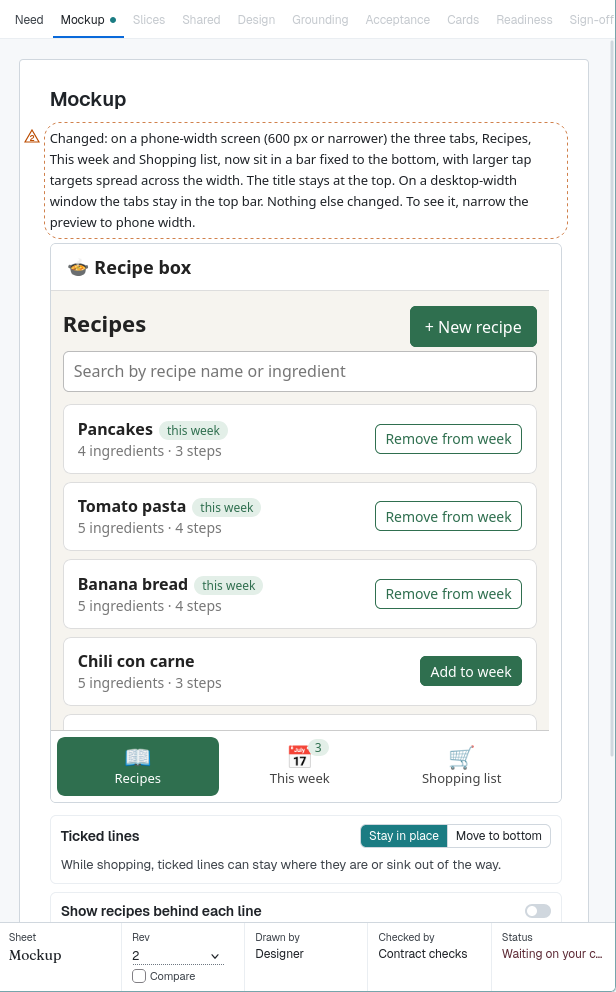
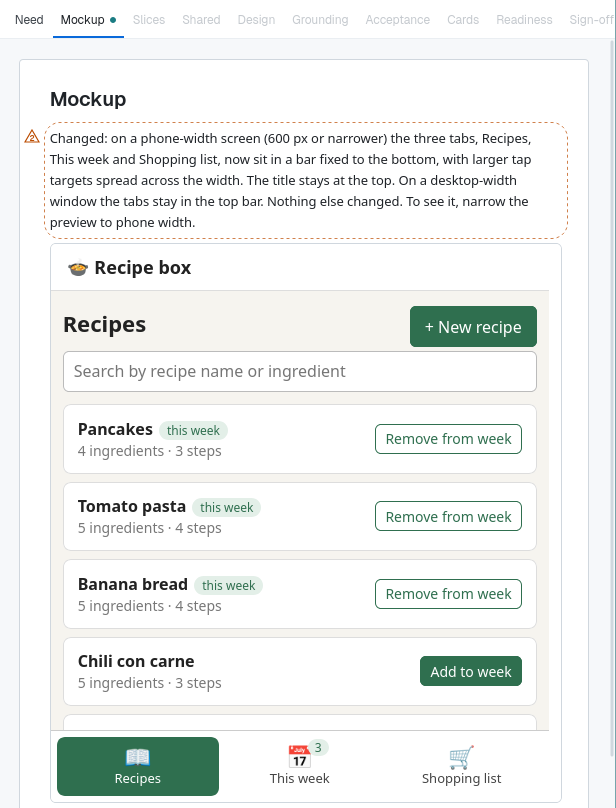
docs(guide): crop out the unflipped switch and correct review findings
- guide: split picture 12b into the screen (above the Ticked lines row)
  and a separate title-block crop, so no picture contradicts the text
- guide: gloss "hardening" and "instruction file" at first use
- reference: add The architect to "Drawn by", point the message-box row
  at "Chat about these questions", apply the revise-and-review loop to
  both gate policies, gloss "hardening"
- README: say what ContextMatrix is and link it; move the backend/client
  sentence to the operator part

diff --git a/docs/guide.md b/docs/guide.md
@@ -91,8 +91,8 @@ time, and switch the mode until you approve the **sign-off**, the last approval
 before the cards go on the board; both are on the scale bar (chapter 4).
 
 recipe-box is marked as a proof of concept (**POC**) in ContextMatrix, so its
-cards ask for tests of the main behaviour and less hardening; the design work is
-the same. See [POC projects](reference.md#poc-projects).
+cards ask for tests of the main behaviour and less hardening (fewer extra guards
+against unusual cases); the design work is the same. See [POC projects](reference.md#poc-projects).
 
 **Research**, which lets the architect search the web before it asks you, is a
 setting of ContextMatrix, not of this dialog. It was off for this run. See
@@ -228,8 +228,9 @@ see [Gate policies](reference.md#gate-policies). The family kept it as it was.
 
 The **Setup** note lists what the project lacks for the agent to work in it. A
 new project like recipe-box has no **verify command** yet, the command (such as
-running the tests) that checks the agent's work, and no instruction file for the
-agent. Neither blocks anything: the first card writes the instruction file, and
+running the tests) that checks the agent's work, and no **instruction file**, a
+file in the project that tells the agent how it is laid out and how to work on
+it. Neither blocks anything: the first card writes the instruction file, and
 the architect proposes a verify command, which the sign-off asks you to set in
 ContextMatrix before the cards run.
 
@@ -273,12 +274,14 @@ your message, so the next revision starts from them wherever it still offers the
 same suggestions. The designer answered with revision 2. Each new revision is
 one AI run, paid from the cap ($0.11 here).
 
-![Revision 2 on the Mockup sheet: the changed note inside a dashed cloud with a small triangle holding 2, and the tabs in a bar at the foot of the phone-sized screen; the title block shows Rev 2 and a Compare box](images/12b-mockup-rev2.png)
+![Revision 2 on the Mockup sheet: the changed note inside a dashed cloud with a small triangle holding 2, and the phone-sized screen with its three tabs in a bar at the foot](images/12b-mockup-rev2.png)
 
 Revision 2 puts the tabs in a bar at the foot of a phone-sized screen. The part
 that changed sits inside a dashed **revision cloud**, with the revision number
 in the small triangle beside it. Earlier revisions stay: the **Rev** list in the
 title block opens them, and **Compare** shows what changed (chapter 9).
+
+![The title block of the Mockup sheet at revision 2: Rev 2 with a Compare box, Drawn by Designer, Checked by Contract checks](images/12c-mockup-rev2-title-block.png)
 
 When it looks right, click **Use this design**. Your settings are recorded as
 your answers, and the chat confirms: "You chose revision 2 of the mockup; the
@@ -439,8 +442,7 @@ any card is written.
 **Grounding** runs once per slice, right after its design. The senior developer
 reads a copy of the code and checks what the design takes for granted: that the
 files and functions it names exist as it says, how the project builds and runs
-its tests (its verify command), whether the code has an **instruction file**, a
-file that tells the agent how the project is laid out and how to work on it,
+its tests (its verify command), whether the code has an instruction file,
 and which of the blueprint's assumptions the code confirms or contradicts. It
 also looks on the board for open cards that already cover part of the need.
 
@@ -479,8 +481,7 @@ new one, and limits such as the largest upload. For each case the slice names
 the criterion or manual check that covers it, or says in a sentence why it needs
 none, and the sheet lists the result under **Edge cases**. A slice whose
 projects are all proofs of concept skips the sweep, since a POC's cards ask for
-the main behaviour and not for hardening, the extra guards against unusual
-cases. recipe-box is a POC, so neither slice had one. See
+the main behaviour and not for hardening. recipe-box is a POC, so neither slice had one. See
 [POC projects](reference.md#poc-projects).
 
 ![The chat during SL2's acceptance: the tester's review of rev 1 sent back with 6 new findings in round 1 of 3, Acceptance SL2 rev 2 Revised for the 6 findings, the review of rev 2 passed with 6 fixed in round 2 of 3, and the line Acceptance (SL2) passed its gate under the auto policy](images/23b-acceptance-sent-back.png)

diff --git a/docs/reference.md b/docs/reference.md
@@ -132,7 +132,7 @@ A round waits as long as you need, across days, a session's end and restarts.
 | "Accept", "Accept all" or "Turn into a question" | Decides each assumption. One you turn into a question is asked in the next round. | On the Assumptions tab. |
 | The "Submit all" button | Sends every answer, and the stage goes on. | On the Submit tab, once everything is answered. |
 | The "Send ... now, answer the rest later" button | Stores the answers so far; the round keeps waiting for the rest. | On the Submit tab. |
-| Type a message | Chat about the round: the stage answers in the round's chat and may change or add questions. A question whose options change loses its answer. | While a round waits for you. |
+| Type a message | Chat about the round: the stage answers in the round's chat and may change or add questions. A question whose options change loses its answer. | While a round waits for you, in **Chat about these questions**: the usual message box is hidden while questions are open. |
 
 After a retrospective, a **lesson round** asks about each proposed lesson, with
 the options "Approve for *project*" (the project of the card that struggled),
@@ -206,12 +206,14 @@ gate. Each is `human` (you) or `auto`.
   result as the next role would (the system designer reads the need and the
   slices, the senior developer the designs, the tester the acceptance
   criteria), scores it from 1 to 5 and lists its findings. A version is
-  approved when it scores 4 or more with no critical finding open. Before
-  that, a version that scores lower or leaves a critical or major finding open
-  is revised and reviewed again, up to three reviews; if the third review
-  still does not pass it, the gate waits for you whatever its policy says.
+  approved when it scores 4 or more with no critical finding open.
 - Under `human`, the gate shows you the version with its reviewer's score and
   findings, and you `approve` or `reject` it.
+
+Under either policy, a version that scores lower or leaves a critical or major
+finding open is revised and reviewed again, up to three reviews, and the gate
+shows the version the last review looked at. Under `auto`, if the third review
+still does not pass it, the gate waits for you whatever its policy says.
 
 The policies in Default mode:
 
@@ -395,7 +397,8 @@ reaches a blueprint the next time it is opened.
 ## POC projects
 
 A project marked "Proof of concept project" in ContextMatrix's Project Settings
-(the sidebar shows it with a POC badge) gets cards that ask for less hardening.
+(the sidebar shows it with a POC badge) gets cards that ask for less hardening,
+meaning fewer extra guards against unusual cases.
 The design work does not change.
 
 | Part of the blueprint | For a POC project |
@@ -477,7 +480,7 @@ At the foot of every sheet, as on a drawing.
 | Sheet | Which sheet it is. |
 | Rev | The version shown. With several, a list to pick another, each marked superseded, rejected, folded or writing where that applies. |
 | Compare | A tick box, when an earlier version exists. See [Compare](#compare). |
-| Drawn by | The role that drew it: product owner, designer, system designer, senior developer or reviewer. |
+| Drawn by | The role that drew it: product owner, designer, system designer, senior developer or reviewer; or The architect, on the sheets it fills in itself (Sign-off, Board). |
 | Checked by | The reviewer and its score, such as "System designer, 4 of 5", with "failed" when it did not pass; click it for the findings. "Contract checks" when no reviewer reads the sheet, only the architect's own rule checks. |
 | Status | Where this version stands, such as Writing, Waiting on your answers, Being reviewed, At your gate, Approved, Rejected, Superseded or Done. |
 

diff --git a/README.md b/README.md
@@ -7,9 +7,10 @@
 
 Tell the architect what you need, in your own words. It interviews you, works
 the plan out step by step and writes the cards an AI agent can build, and you
-approve each big decision before the next step builds on it. It runs as a third
-ContextMatrix backend next to the agent and chat backends; ContextMatrix's chat
-panel is its client.
+approve each big decision before the next step builds on it. The cards go on
+[ContextMatrix](https://github.com/mhersson/contextmatrix), a task board where
+an AI agent builds what each card describes, and you talk to the architect in
+ContextMatrix's chat panel.
 
 ![The Cards sheet of an example blueprint: the first slice's two cards and the four checks a person does by hand, listed in the order they run](docs/images/01-cards-sheet.png)
 
@@ -18,7 +19,9 @@ panel is its client.
 - [Installing](docs/installing.md): what to set up before the first blueprint.
 - [Design](docs/design.md): how it works inside, for developers.
 
-The sections below are for whoever runs the architect.
+The sections below are for whoever runs the architect. It runs as a third
+ContextMatrix backend next to the agent and chat backends, and ContextMatrix's
+chat panel is its client.
 
 ## Run
 
